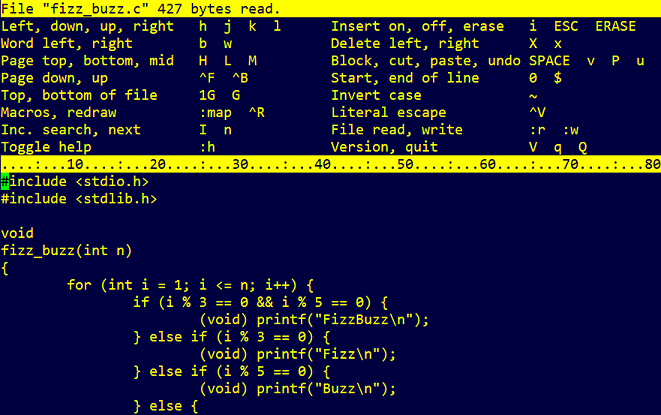
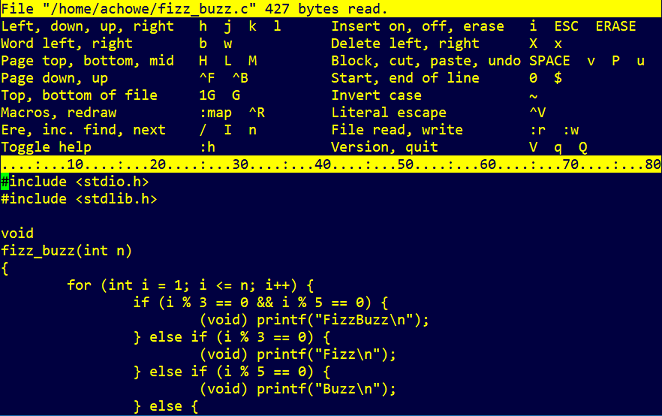
Update README with C User Jornal ISSN reference.  Update screen captures.

diff --git a/README.md b/README.md
@@ -31,7 +31,8 @@ After, `ae` grew with additional commands, like block cut/paste, inline help, ma
   ISBN 0-471-57805-3.
 * Dale Scheetz, The Debian Linux User's Guide, Linux Press, 1997, pg 192.  
   ISBN 0-9659575-0-0.
-* The C Users Journal, November 1993, pg 121  
+* The C Users Journal , November 1993, pg 121, ISSN: 0898-9788  
+  <https://dl.acm.org/doi/10.5555/169969.169987>
   <http://ftp.math.utah.edu/pub/tex/bib/toc/cccuj.html#11(11):November:1993>
 
 ![AE modal bindings](./ae_modal_75.png)
